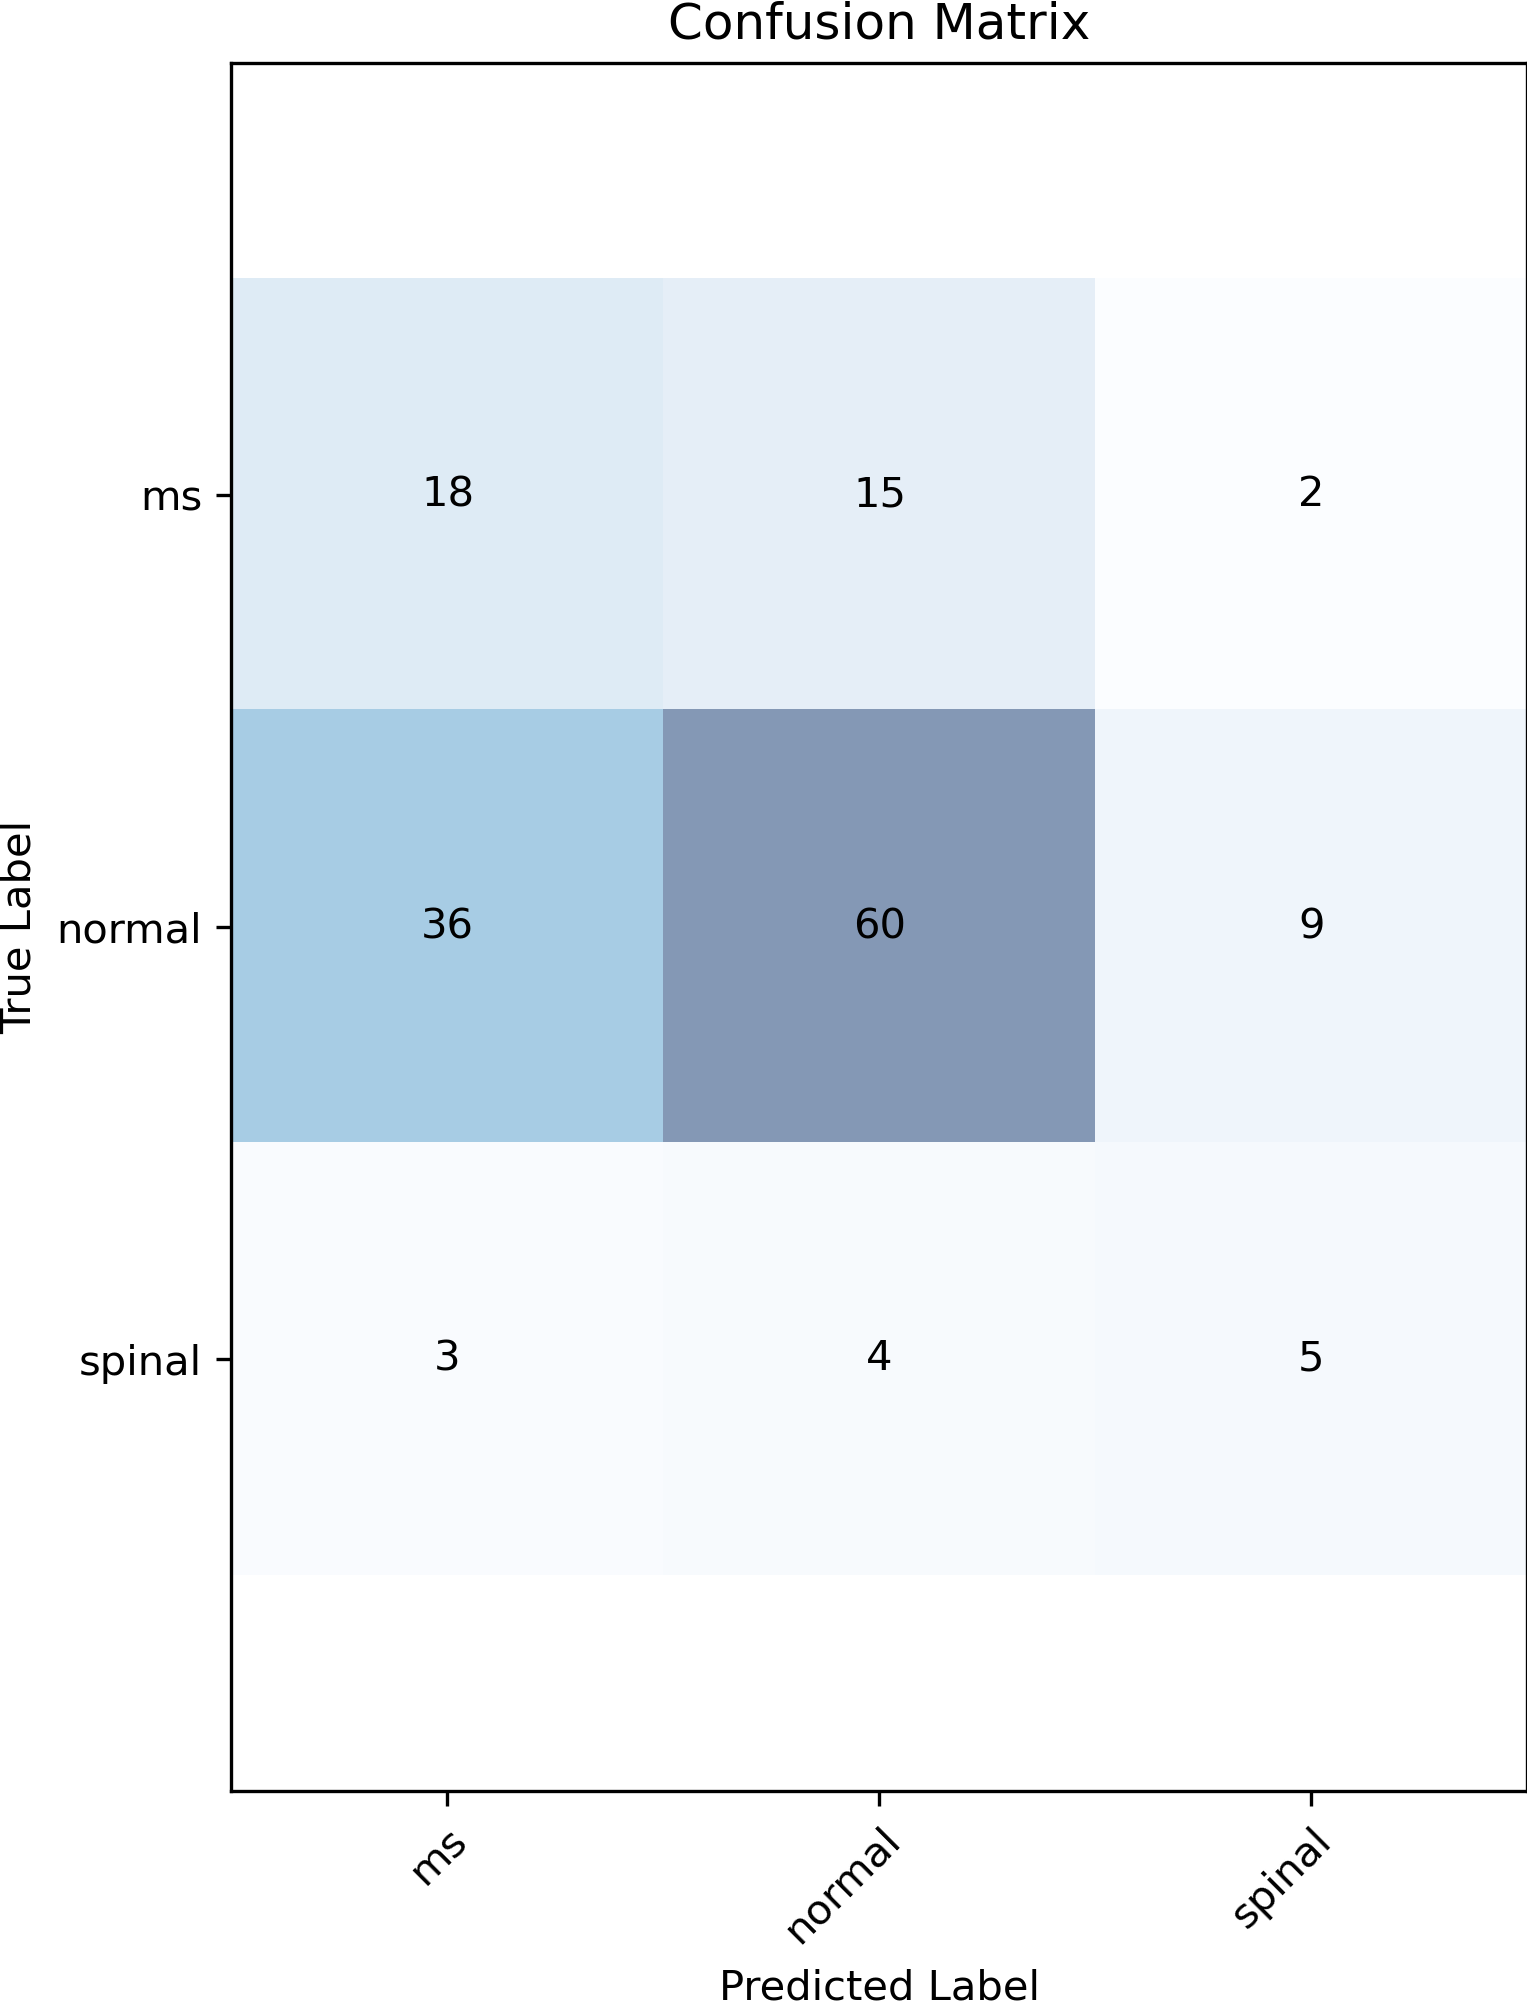
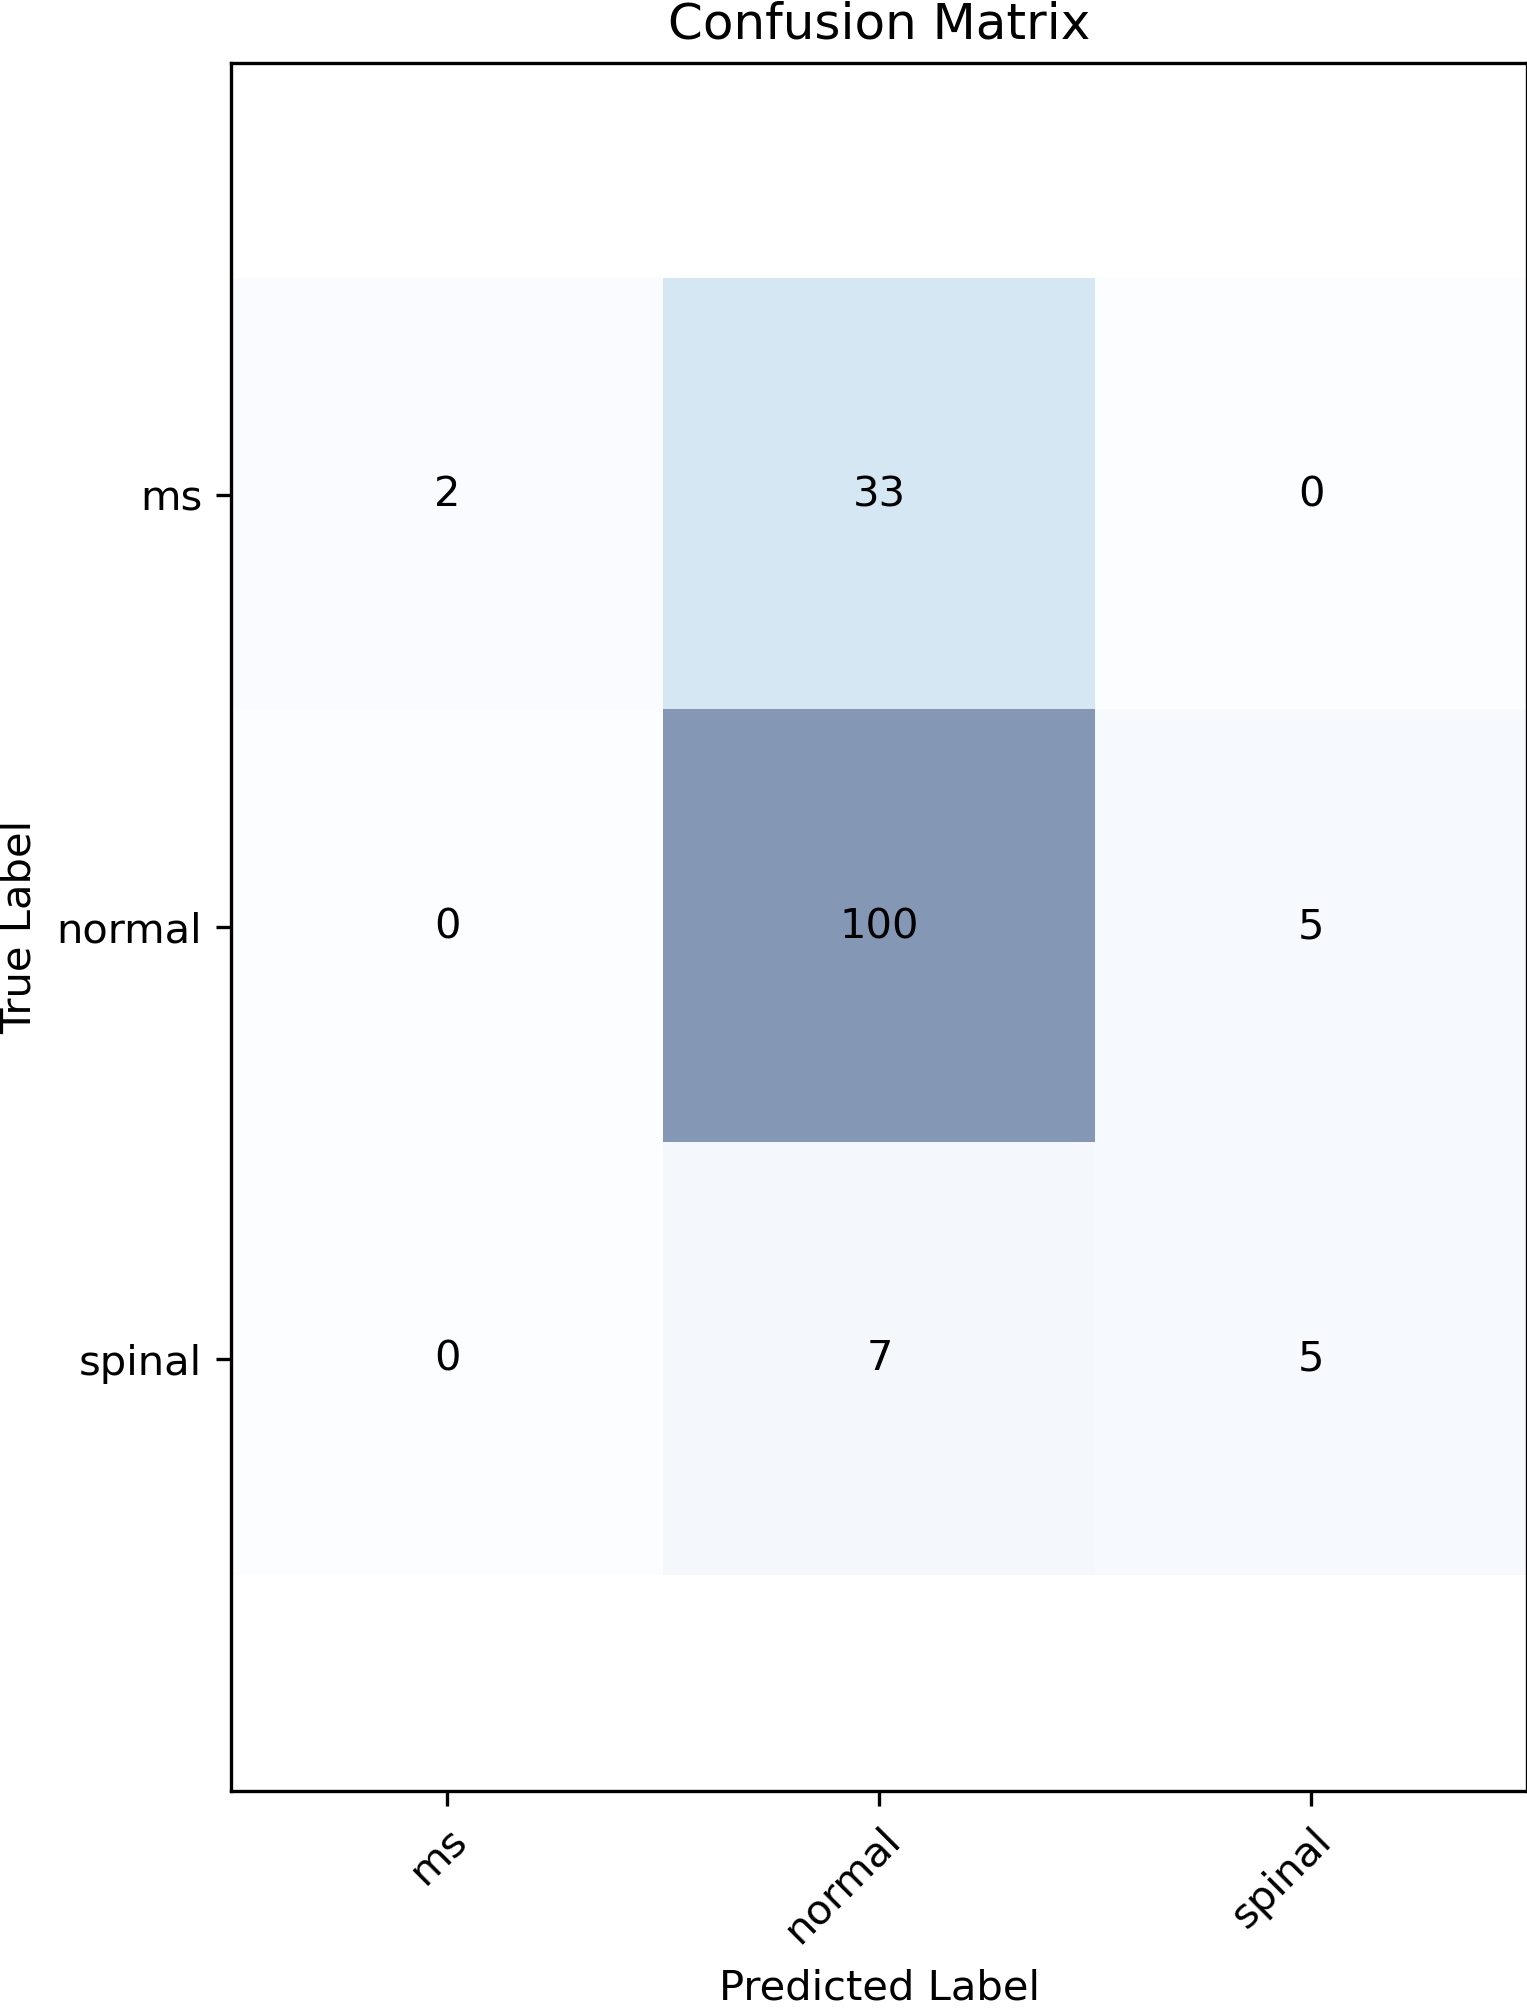
finish the experiment

diff --git a/services/vgg16_service.py b/services/vgg16_service.py
@@ -2,8 +2,8 @@
 # region TensorFlow and tf.keras
 import tensorflow as tf
 # import keras (high level API) wiht tensorflow as backend
-from tensorflow import keras
-from tensorflow.keras.applications.vgg16 import VGG16
+from tensorflow import data, keras
+from tensorflow.keras.applications.vgg16 import VGG16, preprocess_input
 from tensorflow.keras.callbacks import Callback, ModelCheckpoint
 from tensorflow.keras.models import Sequential
 from tensorflow.keras.layers import Dense, Dropout, Flatten
@@ -65,23 +65,33 @@ class VGG16Service(CNNService):
             input_shape=(self.img_width, self.img_height, 3)
         )
         vgg16_model.trainable = False
-        vgg16_model.summary()
-        print('VGG Pretrained Model loaded.')
 
-        model = Sequential()
-        model.add(vgg16_model)
-        model.add(Flatten(name='flatten'))
-        model.add(Dense(4096, activation='relu', name='fc1'))
-        # model.add(Dropout(.5, name='fc1_drop'))
-        model.add(Dense(4096, activation='relu', name='fc2'))
-        # model.add(Dropout(.5, name='fc2_drop'))
-        model.add(Dense(output_class_units, activation='softmax', name='predictions'))
+        x = vgg16_model.output
+        x = Flatten(name='flatten')(x)
+        x = Dense(4096, activation='relu', name='fc1')(x)
+        x = Dropout(.5, name='fc1_drop')(x)
+        x = Dense(4096, activation='relu', name='fc2')(x)
+        x = Dropout(.5, name='fc2_drop')(x)
+        predictions = Dense(output_class_units, activation='softmax', name='predictions')(x)
 
+        model = tf.keras.Model(inputs=vgg16_model.input, outputs=predictions)
         # summarize the model
         model.summary()
 
         return model
     # end build_model()
+
+    # noinspection PyMethodMayBeStatic
+    def standardize_data(self, ds: data.Dataset) -> data.Dataset:
+        r"""
+        https://www.tensorflow.org/tutorials/images/transfer_learning#rescale_pixel_values
+        :param ds: dataset
+        :return: data standardized
+        """
+        ds = ds.map(lambda x, y: (preprocess_input(x), y))
+
+        return ds
+    # end get_data_and_labels()
 
     def compile_and_fit_model(self, model, train_ds, val_ds, n_epochs: int = 50):
         # Đường dẫn export file: "exports/h5/vgg16/vgg16_model.h5"
@@ -94,7 +104,8 @@ class VGG16Service(CNNService):
         # https://towardsdatascience.com/step-by-step-vgg16-implementation-in-keras-for-beginners-a833c686ae6c
         # compile the model
         model.compile(
-            optimizer=keras.optimizers.SGD(learning_rate=self.learning_rate),
+            # optimizer=keras.optimizers.Adam(learning_rate=self.learning_rate),
+            optimizer=keras.optimizers.SGD(learning_rate=self.learning_rate, momentum=0.9, nesterov=True),
             loss=tf.losses.SparseCategoricalCrossentropy(),
             metrics=[keras.metrics.SparseCategoricalAccuracy(name='accuracy')])
 

diff --git a/__main__.py b/__main__.py
@@ -175,7 +175,7 @@ def evaluate_ai_model(logger: Logger, setting: Setting, eeg_image_type: EEGImage
         evaluation_matrix = np.zeros(shape=(13, 9), dtype=np.bool)
         col_index = 0
 
-        for channel in [EEGChannel.P4]:
+        for channel in [EEGChannel.C3, EEGChannel.C4]:
             str_channel = channel.value
             logger.debug(f'Bat dau danh gia tren channel {str_channel}')
             model_path = f'{model_folder}\\{str_eeg_image_type}_{str_channel}_model_{str_now}.h5'
@@ -298,14 +298,14 @@ def evaluate_ai_model(logger: Logger, setting: Setting, eeg_image_type: EEGImage
 def main():
     # region Cấu hình chương trình
     # str_now: str = datetime.now().strftime('%Y%m%d%H%M%S')
-    str_now: str = '20201228120123'
+    str_now: str = '20210109083800'
     eeg_image_type = EEGImageType.Scalogram
     execute_export = False
     is_full_time = False
-    ai_model_type = AIModelType.VGG16
-    execute_build_ai_model = False
+    ai_model_type = AIModelType.AlexNet
+    execute_build_ai_model = True
     n_epochs = 50
-    execute_evaluate = True
+    execute_evaluate = False
 
     execute_grega_vrbancic = False
     # endregion
@@ -516,7 +516,7 @@ def main():
 
     # region Build model AI và đánh giá
     if execute_build_ai_model:
-        for channel in [EEGChannel.P4]:
+        for channel in [EEGChannel.C3, EEGChannel.C4]:
             # region Load dataset
             str_eeg_image_type: str = str(eeg_image_type.value)
             str_channel: str = str(channel.value).upper()

diff --git a/services/cnn_service.py b/services/cnn_service.py
@@ -48,6 +48,8 @@ class CNNService:
     model_name: str
     evaluate_folder: str
     evaluate_name: str
+
+    class_names: List[str]
     # endregion
 
     def __init__(self,  setting: Setting, logger: Logger):
@@ -89,8 +91,8 @@ class CNNService:
             image_size=(img_width, img_height),
             batch_size=batch_size)
 
-        class_names = train_ds.class_names
-        self.logger.debug(f'Class names: {class_names}')
+        self.class_names = train_ds.class_names
+        self.logger.debug(f'Class names: {self.class_names}')
         # endregion
 
         return train_ds, val_ds

diff --git a/services/alexnet_service.py b/services/alexnet_service.py
@@ -113,8 +113,8 @@ class AlexNetService(CNNService):
 
         # compile the model
         model.compile(
-            optimizer=keras.optimizers.SGD(learning_rate=self.learning_rate),
-            loss=tf.losses.SparseCategoricalCrossentropy(),
+            optimizer=keras.optimizers.SGD(learning_rate=self.learning_rate, momentum=.9, nesterov=True),
+            loss=tf.losses.SparseCategoricalCrossentropy(from_logits=True),
             metrics=[keras.metrics.SparseCategoricalAccuracy(name='accuracy')])
 
         # define callbacks
